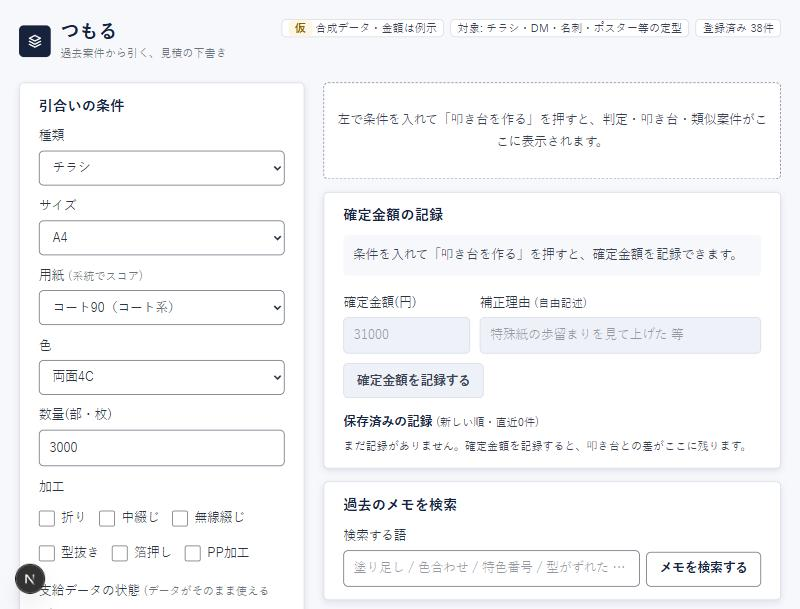
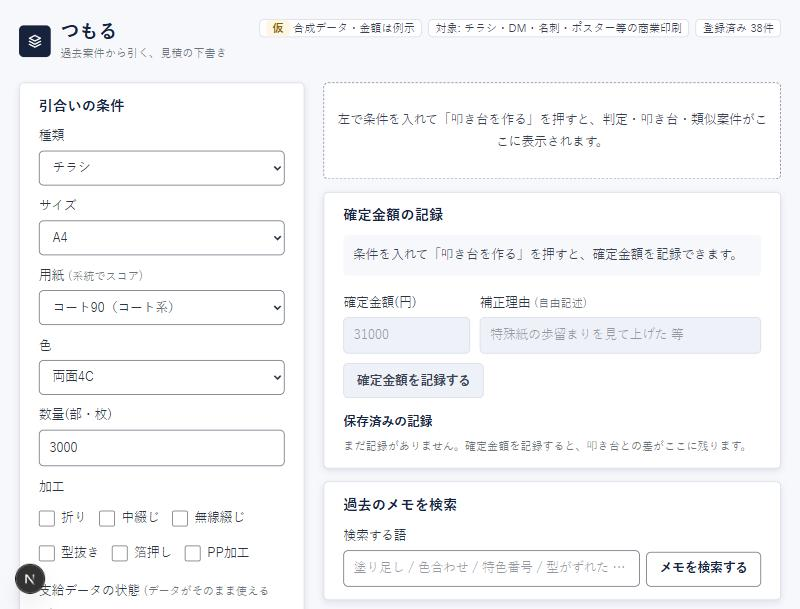
fix: ヘッダーの対象表示を「定型」から「商業印刷」に(WO-009-3)
「定型」と出ると変則案件は対象外と読まれ、提案の背骨と食い違うため。
SPEC・test-scenarios・change-log(CHANGE-P-016)を合わせ、
audit の b01・b02 を撮り直した(旧 b02 の「未計上」の表示を解消)。

diff --git a/src/components/EstimateTool.tsx b/src/components/EstimateTool.tsx
@@ -163,7 +163,7 @@ export default function EstimateTool({ estimates, papers, records }: { estimates
         </div>
         <div className="ctx">
           <span className="chip line"><Kari /> 合成データ・金額は例示</span>
-          <span className="chip line">対象: チラシ・DM・名刺・ポスター等の定型</span>
+          <span className="chip line">対象: チラシ・DM・名刺・ポスター等の商業印刷</span>
           <span className="chip line">登録済み {estimates.length}件</span>
         </div>
       </header>
@@ -206,7 +206,7 @@ export default function EstimateTool({ estimates, papers, records }: { estimates
           ) : (
             <div className="results">
               <div className="rescol">
-                {/* 判定(対象外の5型に該当したときだけ表示。範囲内=定型は何も出さない) */}
+                {/* 判定(対象外の5型に該当したときだけ表示。範囲内は何も出さない) */}
                 {res.detect.length > 0 && (
                   <section className="notice" aria-labelledby="h-detect">
                     <b className="label" id="h-detect">▲ この案件はネット印刷の自動見積の対象外に該当します</b>

diff --git a/docs/change-log.md b/docs/change-log.md
@@ -25,6 +25,7 @@
 | CHANGE-P-013 | 2026-10-13 | 用紙の既定値を「コート90」に(辞書に無ければ先頭)。接続文字列の前後の引用符・空白を除去(`src/db/index.ts`) | 既定条件で一般的な用紙から検索させる / Vercel のクォート罠の再発防止 | `EstimateTool.tsx`・`src/db/index.ts` | ISSUE-P-011・003 |
 | CHANGE-P-014 | 2026-10-13 | `docs/spec.html` の「デプロイ前」を公開済みに修正。`scripts/db-snapshot.ts`(DBの控え取り・突き合わせ。読み取り専用)と `docs/backup/2026-10-12-before-WO003.json`(合成データの控え)を追加 | 書込み試験の前後でデータが元どおりであることを示す。次のWOでも使い回す | `docs/**`・`scripts/` | WO-003 / ISSUE-P-004 |
 | CHANGE-P-015 | 2026-10-13 | **画面整備(WO-009)**: 色・文字・部品を印刷版デザインシステム(design-tokens v1.1)に揃え、`globals.css` の `:root` の1か所に集約。ダークテーマを廃止(ライトのみ)。文字は 14〜40px の5段階・太さ2種、押せる部品は 44px 以上、フォーカスの輪・ラベルの結び付き・メッセージの記号と `role` を整備。記録・メモ検索を結果エリアの下の常時表示の帯に(折りたたみ廃止。叩き台がないときは無効にして理由を表示)。内部の記号・基盤名を画面から外し、文言を動詞に。`error.tsx`・`not-found.tsx` を追加。`docs/DESIGN-SYSTEM.md` を新設。**機能・計算式・DB・保存する値は変更なし**(表示用の文字列「型・版代」の補足のみ変更) | PoC デモの見た目をデッキと同じ水準に。使い手(見積担当)が、再読み込み直後から保存した記録を見られるように(D52 判断2) | `src/app/globals.css`・`layout.tsx`・`error.tsx`・`not-found.tsx`・`src/components/EstimateTool.tsx`・`src/lib/scoring.ts`(katagata の表示文字列のみ)・`docs/**` | WO-009 / D52・D56・D58 / design-audit.md |
+| CHANGE-P-016 | 2026-10-13 | ヘッダーの対象表示を「チラシ・DM・名刺・ポスター等の**定型**」→「…等の**商業印刷**」に変更。b01・b02 のスクショを撮り直し(旧 b02 に写っていた「このモデルには未計上」は CHANGE-P-015 で「叩き台には含みません」に直済み) | 「定型」と出ると変則案件は対象外と読まれ、提案の背骨(自動見積に乗らない案件を速く・根拠つきに)と食い違うため(D60) | `src/components/EstimateTool.tsx`(表示文字列のみ)・`docs/SPEC.md`・`docs/test-scenarios.md`・`docs/screenshots/audit/b01・b02` | WO-009-3 / D60 |
 
 ## 未起票・今後の変更候補(起票は着手時)
 

diff --git a/docs/SPEC.md b/docs/SPEC.md
@@ -96,7 +96,7 @@
 
 | 画面 | 内容 |
 |---|---|
-| `/`(本体) | 見積ツール: 引合い条件入力 → 判定(自動見積対象外の5型)・叩き台・類似案件・手戻り注意・削減効果。右カラムの下に「確定金額の記録」「過去のメモを検索」の帯を**常時表示**(結果の有無に関わらず同じ場所) |
+| `/`(本体) | 見積ツール: 引合い条件入力 → 判定(自動見積対象外の5型)・叩き台・類似案件・手戻り注意・削減効果。右カラムの下に「確定金額の記録」「過去のメモを検索」の帯を**常時表示**(結果の有無に関わらず同じ場所)。ヘッダーの対象表示は「チラシ・DM・名刺・ポスター等の商業印刷」(「定型」とは書かない。変則・自動見積の対象外の案件も扱うため) |
 | 登録/編集モーダル | `/` 上のダイアログ。過去見積を1件**登録**、既存を**編集**(同一フォーム、hidden `id` の有無で insert/update を分岐)。**登録・更新の成功後も閉じずメッセージ表示**、新規は連続入力用にフォーム初期化(bugs.md B1) |
 | 一覧・削除モーダル | `/` 上のダイアログ。全件**照会**＋絞り込み、各行から**編集/削除**(削除はその場でインライン確認)。更新・削除は即 revalidate で一覧に反映 |
 | 確定記録・語句検索 | `/` の常時表示の帯(WO-009。折りたたみは廃止)。確定金額・補正理由は**DBに保存**し、再読み込み直後から直近10件を表示・確認つきで削除できる。叩き台がないときは入力を無効にして理由を表示。語句検索は ILIKE |
@@ -149,3 +149,4 @@
 - **2026-10-12**: 公開状態の記述のみ修正(冒頭ステータス・§7 注記)。2026-08-11 に本番公開済みで、「デプロイは未実施」は実態と不一致だった。他の節は変更なし。関連: change-log.md CHANGE-P-010 / issue-log.md ISSUE-P-004。
 - **2026-10-13**: 確定金額の記録をDB保存に変更(§3・§4。スキーマ変更なし。`source='tool'` の `cost=0`=原価未入力の明記)。関連: change-log.md CHANGE-P-011 / issue-log.md ISSUE-P-005。
 - **2026-10-13**: 画面整備(WO-009)。印刷版デザインシステムに揃え、記録・メモ検索を常時表示に変更(§4)。機能・計算・DBは変更なし。関連: change-log.md CHANGE-P-015 / DESIGN-SYSTEM.md。
+- **2026-10-13**: ヘッダーの対象表示を「…等の定型」→「…等の商業印刷」に(§4)。変則案件も対象と読めるように。関連: change-log.md CHANGE-P-016。

diff --git a/docs/test-scenarios.md b/docs/test-scenarios.md
@@ -17,7 +17,7 @@
 
 | ID | 画面・機能 | 手順 | 期待 | 結果 | 備考・スクショ |
 |---|---|---|---|---|---|
-| T-01 | 初期表示 | `/` を開く | タイトル「つもる ― 見積アシスト」、ヘッダーに「仮 合成データ・金額は例示」「登録済み 38件」。記録欄が最初から見える | ✅ | [01-initial.png](screenshots/01-initial.png)。コンソールエラー 0 件。**WO-009 後**: ヘッダーは「登録済み 38件」(基盤名を外した)。記録・メモ検索の帯が最初から出る([audit/b01](screenshots/audit/b01-initial-desktop.jpg))。h1・main あり |
+| T-01 | 初期表示 | `/` を開く | タイトル「つもる ― 見積アシスト」、ヘッダーに「仮 合成データ・金額は例示」「対象: チラシ・DM・名刺・ポスター等の商業印刷」「登録済み 38件」。記録欄が最初から見える | ✅ | [01-initial.png](screenshots/01-initial.png)。コンソールエラー 0 件。**WO-009 後**: ヘッダーは「登録済み 38件」(基盤名を外した)。記録・メモ検索の帯が最初から出る([audit/b01](screenshots/audit/b01-initial-desktop.jpg))。h1・main あり |
 | T-02 | 見積ツール:叩き台 | 既定条件(チラシ/A4/コート90/両面4C/3,000部/完全データ/新規)で「類似案件を検索して叩き台を作る」 | 叩き台・類似案件4件・手戻り注意・削減効果が出る | ✅ | 叩き台 ¥11,791(単価3.9円/部)、根拠 E-003/E-037/E-001/E-005、手戻り注意1件(E-003)、削減効果(年1,000件で約657,750円)。WO-002 時点は既定の用紙が「PP」で ¥12,529 だった(ISSUE-P-011 を WO-003 で対応済 → 既定=コート90)。[audit/b02](screenshots/audit/b02-result-desktop.jpg) |
 | T-03 | 対象外判定 ①特色 | 色を「特色1C」にして実行 | 「自動見積の対象外」に ① 特色指定。公式FAQへのリンク | ✅ | [03-detect-ng.png](screenshots/03-detect-ng.png)。リンク先の到達は未確認(下記 T-19) |
 | T-04 | 対象外判定 ②〜⑤・複合 | 型抜き / 箔押し / サイズ「その他」/ 種類「POP/販促」/ データ「ラフ・要組版」「手書き・要デザイン」を個別に、さらに全部入りで実行 | それぞれ ②/②/③/④/⑤/⑤ が出る。組版は 0h/1.0h/3.0h(¥0/¥2,631/¥7,893)で加算。複合は ①②④⑤ | ✅ | 組版加算: ラフ=¥14,095+¥2,631=¥16,726、手書き=¥12,529+¥7,893=¥20,422(計算式 = 時給2,631円×DTP時間)。[03b-detect-dtp.png](screenshots/03b-detect-dtp.png) |
